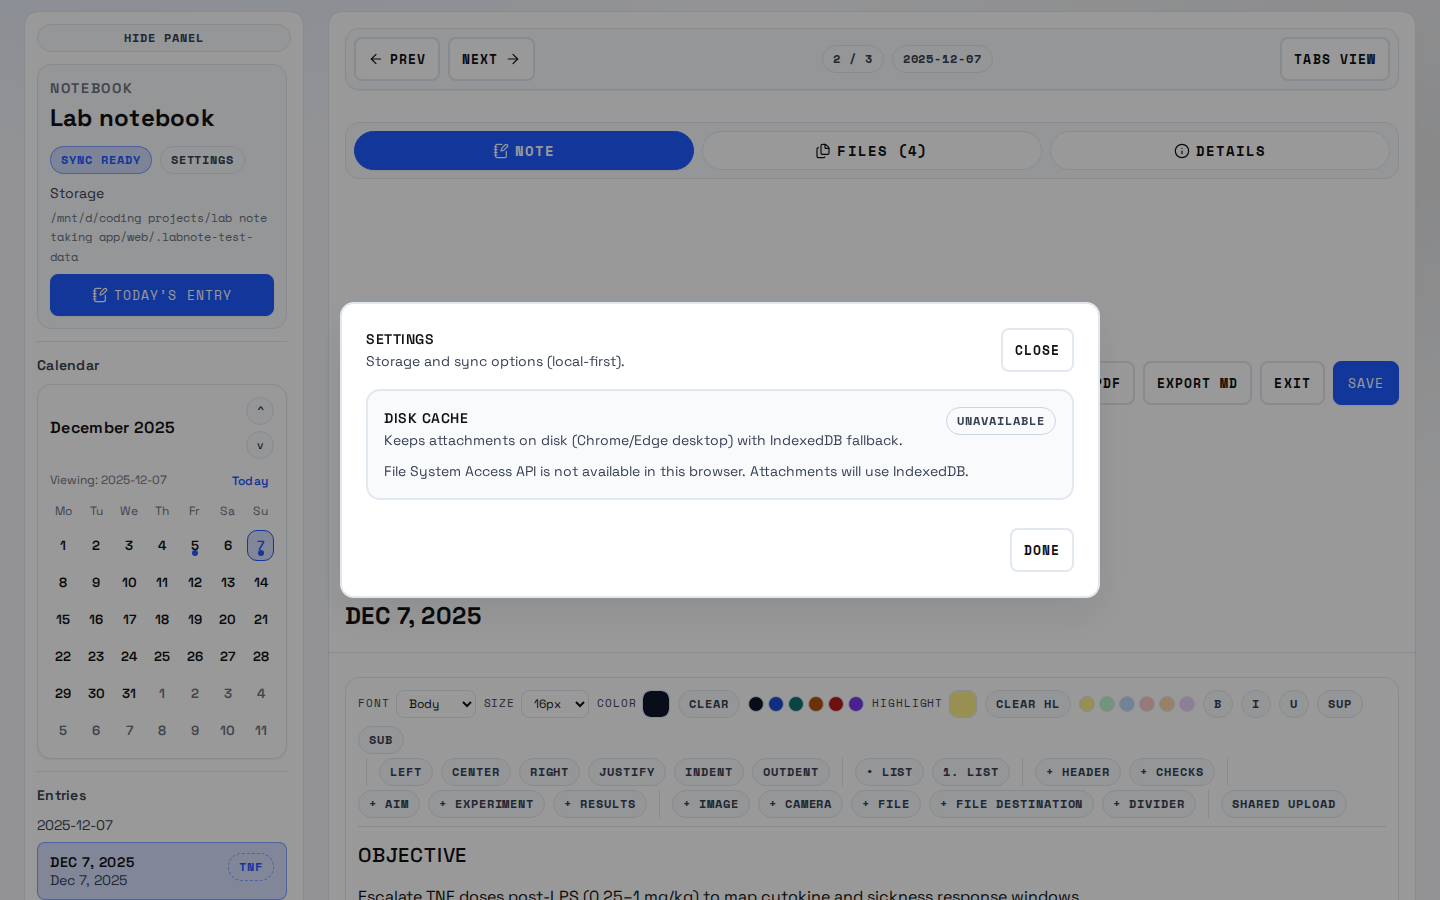
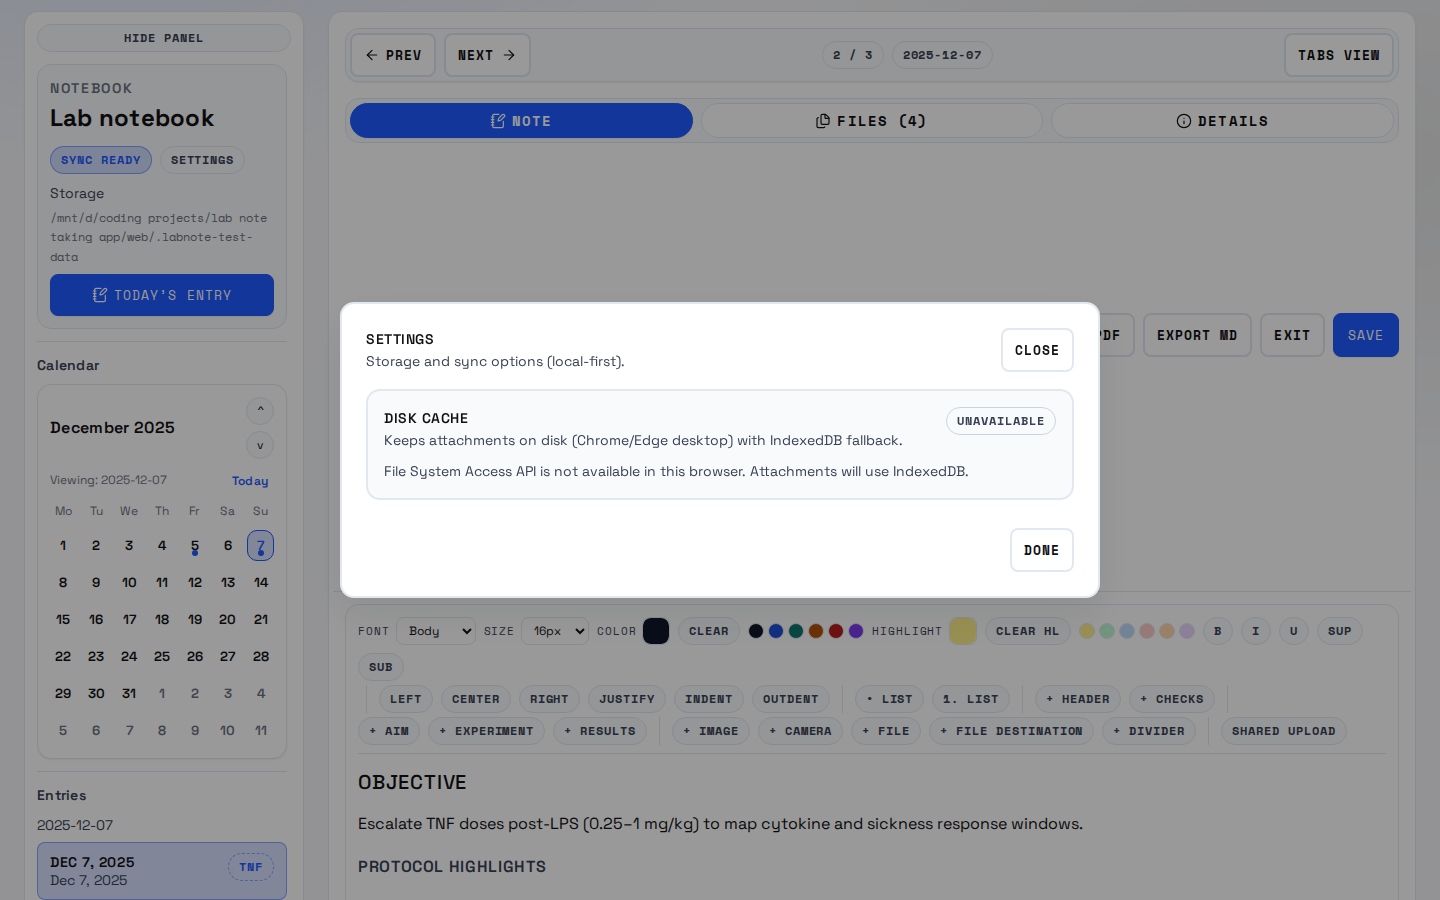
Tighten editor spacing

diff --git a/web/src/App.css b/web/src/App.css
@@ -212,7 +212,7 @@
   display: flex;
   flex-wrap: wrap;
   gap: var(--space-2);
-  padding: var(--space-2);
+  padding: var(--space-1);
   border: 1px solid var(--border);
   border-radius: var(--radius-md);
   background: var(--surface-2);
@@ -223,7 +223,7 @@
   align-items: center;
   flex-wrap: wrap;
   gap: var(--space-2);
-  padding: var(--space-2);
+  padding: var(--space-1);
   border: 1px solid var(--border);
   border-radius: var(--radius-md);
   background: var(--surface-2);
@@ -235,7 +235,7 @@
   align-items: center;
   flex-wrap: wrap;
   gap: var(--space-2);
-  padding: var(--space-2);
+  padding: var(--space-1);
   border: 1px solid var(--border);
   border-radius: var(--radius-md);
   background: var(--surface-2);
@@ -684,7 +684,7 @@
 .editor-body {
   display: flex;
   flex-direction: column;
-  gap: var(--space-3);
+  gap: var(--space-2);
 }
 
 .editor-body.split {
@@ -697,7 +697,7 @@
 .editor-panel {
   display: flex;
   flex-direction: column;
-  gap: var(--space-3);
+  gap: var(--space-2);
   min-width: 0;
 }
 
@@ -785,11 +785,11 @@
 
 .title-row h1 {
   margin: 0;
-  font-size: 24px;
+  font-size: 20px;
   font-family: var(--font-display);
-  text-transform: uppercase;
-  letter-spacing: var(--tracking-display);
-  font-weight: 700;
+  text-transform: none;
+  letter-spacing: 0.02em;
+  font-weight: 600;
 }
 
 .details-head {
@@ -2123,14 +2123,14 @@ textarea:focus-visible {
 }
 
 .editor {
-  gap: var(--s-5);
+  gap: var(--space-3);
 }
 
 .editor-header {
   position: sticky;
   top: 0;
-  margin: calc(var(--space-4) * -1) calc(var(--space-4) * -1) 0;
-  padding: var(--space-4);
+  margin: calc(var(--space-3) * -1) calc(var(--space-3) * -1) 0;
+  padding: var(--space-3) var(--space-3) var(--space-2);
   background: var(--surface);
   border-bottom: 1px solid var(--border);
   z-index: 2;
@@ -2142,7 +2142,7 @@ textarea:focus-visible {
   margin: 0;
   display: flex;
   flex-direction: column;
-  gap: var(--s-2);
+  gap: var(--space-2);
 }
 
 .breadcrumbs {
@@ -2154,6 +2154,7 @@ textarea:focus-visible {
   color: var(--text-2);
   font-size: var(--fs-14);
   flex: 1 1 360px;
+  margin-bottom: 2px;
 }
 
 .banner {
@@ -2227,9 +2228,9 @@ textarea:focus-visible {
 
 .title-row h1 {
   margin: 0;
-  font-size: var(--fs-24);
+  font-size: var(--fs-20);
   font-family: var(--font-display);
-  font-weight: 700;
+  font-weight: 600;
   letter-spacing: 0.02em;
 }
 
@@ -2243,8 +2244,8 @@ textarea:focus-visible {
 .editor-tabs {
   display: flex;
   flex-wrap: wrap;
-  gap: var(--s-2);
-  margin-top: var(--s-2);
+  gap: var(--space-2);
+  margin-top: var(--space-1);
 }
 
 .tab-button {
@@ -2252,7 +2253,7 @@ textarea:focus-visible {
   border: 1px solid var(--border);
   background: var(--surface);
   color: var(--text);
-  padding: 8px 12px;
+  padding: 6px 10px;
   font-size: var(--fs-14);
   font-weight: 600;
   cursor: pointer;
@@ -2330,7 +2331,7 @@ textarea:focus-visible {
 .blocks {
   display: flex;
   flex-direction: column;
-  gap: var(--s-5);
+  gap: var(--space-4);
   max-width: 100%;
   width: 100%;
   margin: 0;
@@ -2642,8 +2643,8 @@ textarea:focus-visible {
 }
 
 .editor-toolbar-dock {
-  margin-top: var(--s-3);
-  padding-top: var(--s-3);
+  margin-top: var(--space-2);
+  padding-top: var(--space-2);
   border-top: 1px solid var(--border);
   background: var(--surface);
 }
